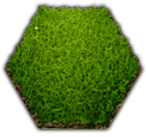
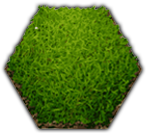
added in random energy tiles

diff --git a/thegrid/TileEnergy.m b/thegrid/TileEnergy.m
@@ -28,7 +28,7 @@
 }
 
 - (id)initWithRandomPropertiesAt:(HexPoint)point {
-    if ((self = [super initWithRadius:74.0f position:point spriteName:@"city_tile_background.png"])) {
+    if ((self = [super initWithRadius:74.0f position:point spriteName:[NSString stringWithFormat:@"energy_tile_background_%i.png", arc4random() % 3]])) {
         self.scoreCoal = arc4random() % 11;
         self.scoreOil = arc4random() % 11;
         self.scoreGas = arc4random() % 11;

diff --git a/thegrid/HexNode.m b/thegrid/HexNode.m
@@ -103,13 +103,13 @@
     return YES;
 }
 
-- (void)draw {
+/*- (void)draw {
     glLineWidth(1.0f);
     glEnable(GL_LINE_SMOOTH);
                 
     glColor4ub(_color.r, _color.g, _color.b, 255);
     [self drawHexAt:[self origin]];
-}
+}*/
 
 - (void)dealloc {
     [_sprite release], _sprite = nil;
